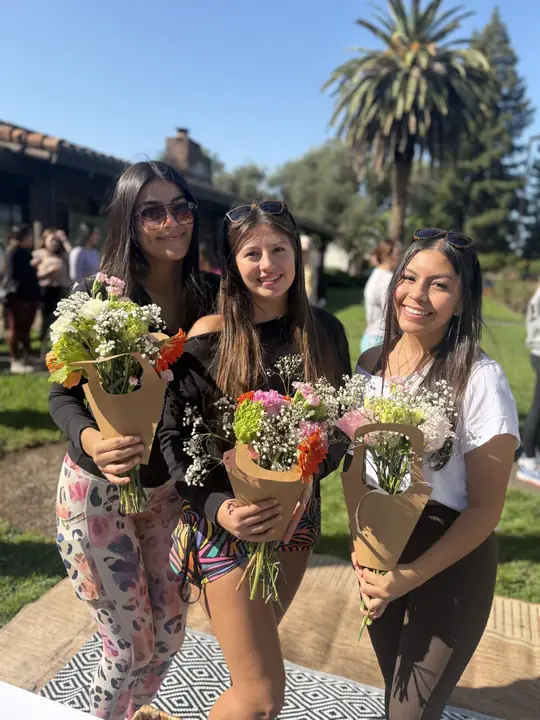
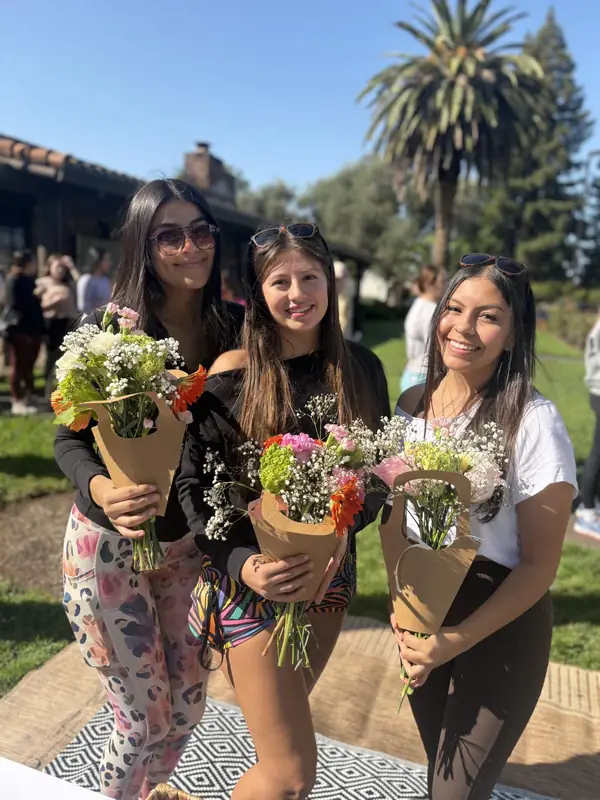
Add files via upload

diff --git a/index.html b/index.html
@@ -2,7 +2,7 @@
 <html lang="en">
 <head>
 <meta charset="utf-8">
-<meta http-equiv="Content-Security-Policy" content="default-src 'self'; script-src 'self' 'sha256-bfa6R9xsb1VTQv+IDQHQYh/pCZzBFUR55YHbois4dW8=' 'sha256-owpOKlSdgCxcu9RiqLOOyrmP8D6zWfhlz3voVneJMck=' 'sha256-LpizyipeqmIuntED2Si1osr/49kSeQr/Fl6RbHCc64I=' 'sha256-acGJrxw4bOiOzJy1ufwkON4tfE/ci1gVDBDk4P+Zb1c=' 'sha256-i9TChSt8zpVij4gkkrIQQCPsEudr6j0MRwtyNbnTzdY='; style-src 'self' 'unsafe-inline' https://fonts.googleapis.com; font-src 'self' https://fonts.gstatic.com; img-src 'self' data: blob:; connect-src 'self' https://formspree.io; form-action 'self' https://formspree.io; base-uri 'self'; object-src 'none'; manifest-src 'self'; worker-src 'self'; frame-src 'none'; upgrade-insecure-requests">
+<meta http-equiv="Content-Security-Policy" content="default-src 'self'; script-src 'self' 'sha256-bfa6R9xsb1VTQv+IDQHQYh/pCZzBFUR55YHbois4dW8=' 'sha256-owpOKlSdgCxcu9RiqLOOyrmP8D6zWfhlz3voVneJMck=' 'sha256-LpizyipeqmIuntED2Si1osr/49kSeQr/Fl6RbHCc64I=' 'sha256-NKoPuSEwck1hhQfO6odlmznOSKtbL/fysEJCX/hDo6A=' 'sha256-i9TChSt8zpVij4gkkrIQQCPsEudr6j0MRwtyNbnTzdY='; style-src 'self' 'unsafe-inline' https://fonts.googleapis.com; font-src 'self' https://fonts.gstatic.com; img-src 'self' data: blob:; connect-src 'self' https://formspree.io; form-action 'self' https://formspree.io; base-uri 'self'; object-src 'none'; manifest-src 'self'; worker-src 'self'; frame-src 'none'; upgrade-insecure-requests">
 <meta name="referrer" content="strict-origin-when-cross-origin">
 <meta name="viewport" content="width=device-width, initial-scale=1, maximum-scale=1, user-scalable=no, viewport-fit=cover">
 <link rel="preload" as="image" href="logo.webp?v=21" fetchpriority="high">
@@ -435,9 +435,9 @@ p{margin:0}
 .gal h2 em{color:var(--rust)}
 .gstage{position:relative;height:clamp(330px,40vw,470px);margin-top:26px;perspective:1300px;touch-action:pan-y;cursor:grab;user-select:none}
 .gstage:active{cursor:grabbing}
-.gring{position:absolute;left:50%;top:50%;width:var(--gw);height:calc(var(--gw) * 1.3);margin:calc(var(--gw) * -.65) 0 0 calc(var(--gw) * -.5);transform-style:preserve-3d;will-change:transform}
-.gcard{position:absolute;inset:0;margin:0;overflow:hidden;border-radius:4px;background:#1a2a31;box-shadow:0 18px 40px rgba(14,26,32,.28);clip-path:polygon(16px 0,100% 0,100% calc(100% - 16px),calc(100% - 16px) 100%,0 100%,0 16px);backface-visibility:hidden}
-.gcard img{width:100%;height:100%;object-fit:cover;pointer-events:none;-webkit-user-drag:none}
+.gring{position:absolute;left:50%;top:50%;width:0;height:0;transform-style:preserve-3d;will-change:transform}
+.gcard{position:absolute;margin:0;overflow:hidden;border-radius:3px;background:#1a2a31;box-shadow:0 18px 40px rgba(14,26,32,.28);backface-visibility:hidden}
+.gcard img{display:block;width:100%;height:100%;object-fit:contain;pointer-events:none;-webkit-user-drag:none}
 .gctl{display:flex;justify-content:center;align-items:center;gap:22px;margin-top:20px}
 .gbtn{width:46px;height:46px;border:1px solid rgba(20,36,45,.25);background:var(--paper);color:var(--ink);font-size:18px;cursor:pointer;clip-path:polygon(10px 0,100% 0,100% calc(100% - 10px),calc(100% - 10px) 100%,0 100%,0 10px)}
 .gbtn:hover{background:var(--brass)}
@@ -683,7 +683,7 @@ document.addEventListener("error",function(e){var t=e.target;if(!t||t.tagName!==
 <section class="gal" id="gallery" aria-labelledby="gal-h">
   <div class="wrap gal-head"><div class="eyebrow">Moments from the trailer</div><h2 id="gal-h">Raise a glass to <em>good times.</em></h2></div>
   <div class="gstage" id="gstage" aria-roledescription="carousel" aria-label="Photo gallery, drag to spin">
-    <div class="gring" id="gring"><figure class="gcard"><img src="gal-serving.webp?v=22" alt="A Saddle Up bartender handing a drink to a guest at the trailer window" loading="lazy" decoding="async" draggable="false"></figure><figure class="gcard"><img src="gal-bouquets.webp?v=22" alt="Three guests holding bouquets they made at the flower bloom bar" loading="lazy" decoding="async" draggable="false"></figure><figure class="gcard"><img src="gal-saddle-up-bar.webp?v=22" alt="The Saddle Up trailer bar under string lights" loading="lazy" decoding="async" draggable="false"></figure><figure class="gcard"><img src="gal-cups.webp?v=22" alt="Signature cocktails in Saddle Up branded cups with flower garnishes" loading="lazy" decoding="async" draggable="false"></figure><figure class="gcard"><img src="gal-decor.webp?v=22" alt="Mr and Mrs sign on a greenery and white rose flower wall" loading="lazy" decoding="async" draggable="false"></figure><figure class="gcard"><img src="gal-charcuterie.webp?v=22" alt="Charcuterie box with a thank-you sticker on the lid" loading="lazy" decoding="async" draggable="false"></figure><figure class="gcard"><img src="gal-bubbly.webp?v=22" alt="Champagne wall beside a floral backdrop" loading="lazy" decoding="async" draggable="false"></figure><figure class="gcard"><img src="gal-hero.webp?v=22" alt="The Saddle Up trailer dressed with greenery and florals" loading="lazy" decoding="async" draggable="false"></figure><figure class="gcard"><img src="gal-fancy-ash.webp?v=22" alt="Wood-panel bar with a greenery front set up outdoors" loading="lazy" decoding="async" draggable="false"></figure></div>
+    <div class="gring" id="gring"><figure class="gcard" data-ar="1.4363"><img width="800" height="557" src="gal-serving.webp?v=26" alt="A Saddle Up bartender handing a drink to a guest at the trailer window" loading="lazy" decoding="async" draggable="false"></figure><figure class="gcard" data-ar="0.7500"><img width="600" height="800" src="gal-bouquets.webp?v=26" alt="Three guests holding bouquets they made at the flower bloom bar" loading="lazy" decoding="async" draggable="false"></figure><figure class="gcard" data-ar="0.7762"><img width="621" height="800" src="gal-saddle-up-bar.webp?v=26" alt="The Saddle Up trailer bar under string lights" loading="lazy" decoding="async" draggable="false"></figure><figure class="gcard" data-ar="1.5094"><img width="800" height="530" src="gal-cups.webp?v=26" alt="Signature cocktails in Saddle Up branded cups with flower garnishes" loading="lazy" decoding="async" draggable="false"></figure><figure class="gcard" data-ar="0.7975"><img width="638" height="800" src="gal-decor.webp?v=26" alt="Mr and Mrs sign on a greenery and white rose flower wall" loading="lazy" decoding="async" draggable="false"></figure><figure class="gcard" data-ar="1.5123"><img width="800" height="529" src="gal-charcuterie.webp?v=26" alt="Charcuterie box with a thank-you sticker on the lid" loading="lazy" decoding="async" draggable="false"></figure><figure class="gcard" data-ar="0.7438"><img width="595" height="800" src="gal-bubbly.webp?v=26" alt="Champagne wall beside a floral backdrop" loading="lazy" decoding="async" draggable="false"></figure><figure class="gcard" data-ar="1.3333"><img width="800" height="600" src="gal-hero.webp?v=26" alt="The Saddle Up trailer dressed with greenery and florals" loading="lazy" decoding="async" draggable="false"></figure><figure class="gcard" data-ar="0.6600"><img width="528" height="800" src="gal-fancy-ash.webp?v=26" alt="Wood-panel bar with a greenery front set up outdoors" loading="lazy" decoding="async" draggable="false"></figure></div>
   </div>
   <div class="gctl"><button type="button" class="gbtn" id="gprev" aria-label="Previous photo">&larr;</button><span class="ghint">Drag to spin</span><button type="button" class="gbtn" id="gnext" aria-label="Next photo">&rarr;</button></div>
 </section>
@@ -1045,24 +1045,35 @@ if(!standalone && /iphone|ipad|ipod/i.test(navigator.userAgent) && !/crios|fxios
   },60);
 })();
 
-/* ---------- 3D photo carousel: slow spin, drag/flick, arrows; runs only on screen ---------- */
+/* ---------- 3D photo carousel: each window sized to its photo (nothing cropped); slow spin, drag/flick, arrows; runs only on screen ---------- */
 (function(){
   var stage=$("#gstage"), ring=$("#gring"); if(!stage) return;
-  var cards=$$(".gcard",ring), n=cards.length, step=360/n, ang=0, vel=0, drag=null, lastX=0, lastT=0, target=null;
-  function layout(){ var w=Math.min(300,Math.max(170,window.innerWidth*(window.innerWidth<700?0.48:0.2))); stage.style.setProperty("--gw",w+"px");
-    var r=Math.round((w/2)/Math.tan(Math.PI/n)+w*0.18); cards.forEach(function(c,i){ c.style.transform="rotateY("+(i*step)+"deg) translateZ("+r+"px)"; }); ring.dataset.r=r; }
+  var cards=$$(".gcard",ring), n=cards.length, ang=0, vel=0, drag=null, lastX=0, lastT=0, target=null, centers=[], R=0;
+  function layout(){
+    var h=Math.round(Math.min(380,Math.max(230,stage.clientHeight*0.82))), gap=Math.round(h*0.09), ws=[], total=0;
+    cards.forEach(function(c){ var w=Math.round(h*parseFloat(c.getAttribute("data-ar")||"0.75")); ws.push(w); total+=w+gap; });
+    R=Math.max(h*0.9,Math.round(total/(2*Math.PI)));
+    var acc=0; centers=[];
+    cards.forEach(function(c,i){ var w=ws[i], a=(acc+w/2)/total*360; acc+=w+gap; centers.push(a);
+      c.style.width=w+"px"; c.style.height=h+"px"; c.style.left=(-w/2)+"px"; c.style.top=(-h/2)+"px";
+      c.style.transform="rotateY("+a.toFixed(2)+"deg) translateZ("+R+"px)"; });
+  }
   layout(); window.addEventListener("resize",layout);
   stage.addEventListener("pointerdown",function(e){ drag=true; target=null; lastX=e.clientX; lastT=performance.now(); try{stage.setPointerCapture(e.pointerId);}catch(_){} });
-  stage.addEventListener("pointermove",function(e){ if(!drag) return; var now=performance.now(), dx=e.clientX-lastX; ang+=dx*0.25; vel=dx*0.25/Math.max(8,now-lastT); lastX=e.clientX; lastT=now; });
+  stage.addEventListener("pointermove",function(e){ if(!drag) return; var now=performance.now(), dx=e.clientX-lastX; ang+=dx*0.22; vel=dx*0.22/Math.max(8,now-lastT); lastX=e.clientX; lastT=now; });
   function up(){ drag=null; } stage.addEventListener("pointerup",up); stage.addEventListener("pointercancel",up);
-  function go(d){ target=(target===null?Math.round(ang/step)*step:target)+d*step; vel=0; }
+  function go(d){ /* snap to the next/previous photo's center */
+    var cur=((-(target===null?ang:target))%360+360)%360, best=0, bd=1e9;
+    centers.forEach(function(c,i){ var dd=Math.abs(((c-cur)%360+540)%360-180); if(dd<bd){bd=dd;best=i;} });
+    var nxt=centers[(best+(d<0?1:-1)+n)%n], base=(target===null?ang:target), diff=((-nxt-base)%360+540)%360-180;
+    if(Math.abs(diff)<1) diff=d<0?-360/n:360/n; target=base+diff; vel=0; }
   $("#gprev").addEventListener("click",function(){ go(1); }); $("#gnext").addEventListener("click",function(){ go(-1); });
   runInView(stage,function(t,dt){
     if(!drag){
       if(target!==null){ ang+=(target-ang)*Math.min(1,dt*0.008); if(Math.abs(target-ang)<0.05){ ang=target; target=null; } }
       else { vel+=(-0.012-vel)*Math.min(1,dt*0.002); ang+=vel*dt; }
     }
-    ring.style.transform="translateZ(-"+ring.dataset.r+"px) rotateY("+ang.toFixed(2)+"deg)";
+    ring.style.transform="translateZ(-"+R+"px) rotateY("+ang.toFixed(2)+"deg)";
   },60);
 })();
 

diff --git a/sw.js b/sw.js
@@ -2,7 +2,7 @@
    Pages: network first (always fresh), saved copy only when offline.
    Photos, logo, fonts: served instantly from the saved copy (their URLs change with every update),
    fetched once and kept. Only real images/fonts are ever saved. Bump VERSION when you upload changes. */
-var VERSION = "saddleup-v23";
+var VERSION = "saddleup-v26";
 var CORE = ["index.html", "logo.webp?v=21"];
 
 self.addEventListener("install", function (e) {
